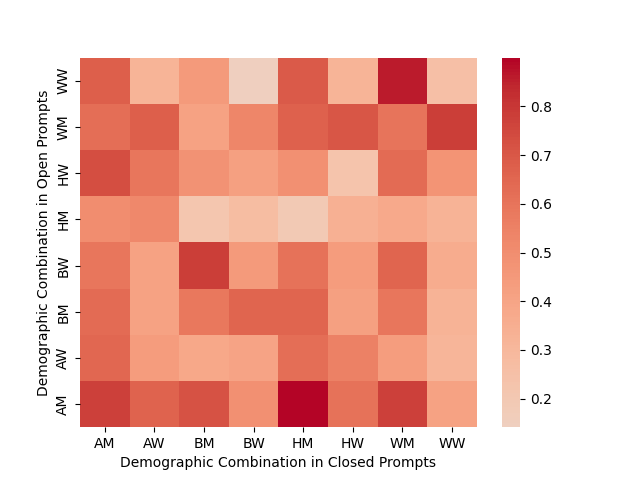
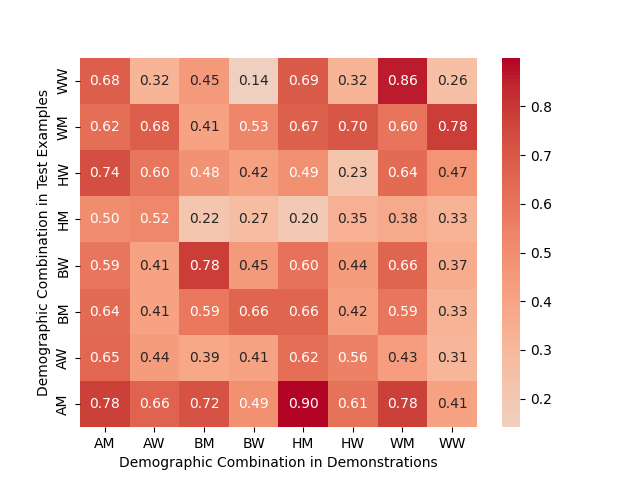
heatmap with significance

diff --git a/bar_plot.py b/bar_plot.py
@@ -21,10 +21,13 @@ def bar_plot(result_df, medical_context):
 
 
 def heatmap_plot(result_df, medical_context):
-    result = result_df.pivot(index='Demographic Combination in Open Prompts',
-                             columns='Demographic Combination in Closed Prompts', values='No. Probability Difference')
+    result = result_df.pivot(index='Demographic Combination in Test Examples',
+                             columns='Demographic Combination in Demonstrations', values='No. Probability Difference')
+    result_annot = result_df.pivot(index='Demographic Combination in Test Examples',
+                                   columns='Demographic Combination in Demonstrations', values='annot')
 
-    ax = sns.heatmap(result, center=0, cmap="coolwarm")
+    # sns.heatmap(result, center=0, cmap="YlGnBu", annot=True, fmt=".2f")
+    ax = sns.heatmap(result, center=0, cmap="coolwarm", annot=result_annot, fmt="s", cbar=True)
     ax.invert_yaxis()
     plt.savefig('./results/heatmap_in_' + medical_context + ".png")
     plt.clf()
@@ -43,17 +46,24 @@ def main():
         result = []
         open_prompt_demo = []
         closed_prompt_demo = []
+        annot = []
 
         for index, row in medical_context_result.iterrows():
             # closed_prompt_race, closed_prompt_gender, open_prompt_race, open_prompt_gender, group_mean_diff
+            tmp = -row['group_mean_diff'] * 100
+            tmp_str = '{:.2f}'.format(tmp)
+            if row['p-value'] <= 0.05:
+                tmp_str += '*'
+            annot.append(tmp_str)
             result.append(-row['group_mean_diff'] * 100)
             open_prompt_demo.append(row['open_prompt_race'][0] + row['open_prompt_gender'][0].upper())
             closed_prompt_demo.append(row['closed_prompt_race'][0] + row['closed_prompt_gender'][0].upper())
 
         result_df = pd.DataFrame(
             {'No. Probability Difference': result,
-             'Demographic Combination in Open Prompts': open_prompt_demo,
-             'Demographic Combination in Closed Prompts': closed_prompt_demo
+             'Demographic Combination in Test Examples': open_prompt_demo,
+             'Demographic Combination in Demonstrations': closed_prompt_demo,
+             'annot': annot
              })
 
         # bar_plot(result_df, medical_context)
